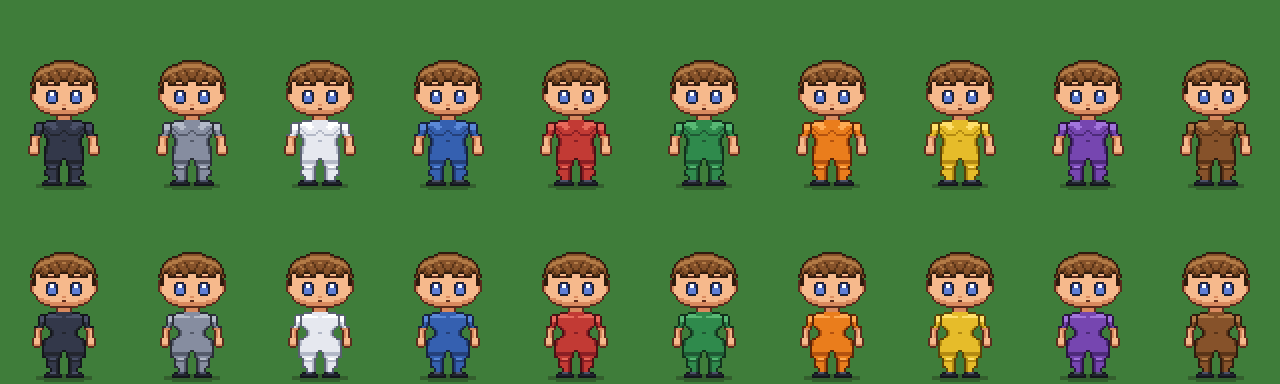
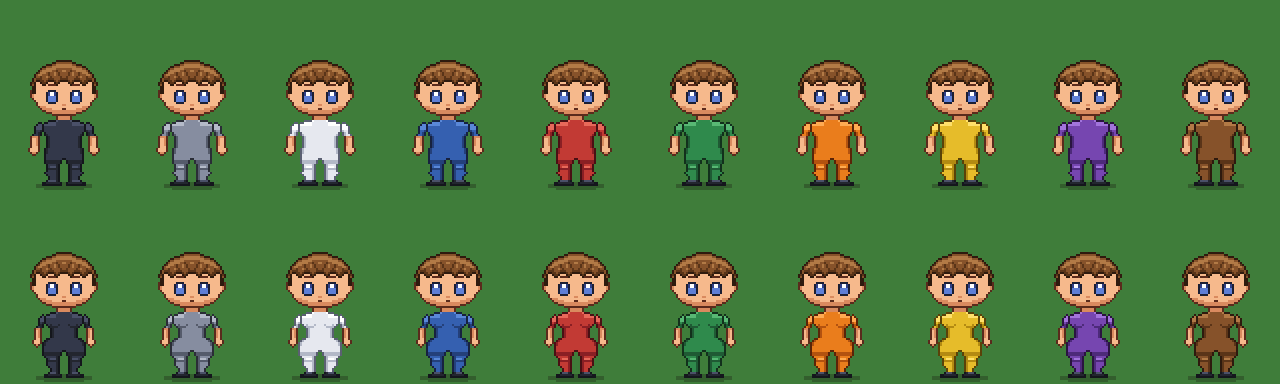
Arte: regra das pontas arredondadas, roupa lisa, espiral maior, contraste da estampa e cabelo repicado
Padrões de cabelo observados na referência em arte/boneco-base/REFERENCIA-GRAAL.md.

Claude-Session: https://claude.ai/code/session_013vLqrS9CvqGe3bkjQv7HjM

diff --git a/arte/boneco-base.html b/arte/boneco-base.html
@@ -136,7 +136,14 @@
     if (inf && inf.modo === 'cor') { set(inf.partes, k.corInferior || 'preto'); hide.inferior = true; }
     if (k.pes) set(PECAS.calcado.partes, k.pes);
     if (k.maos) set(PECAS.luvas.partes, k.maos);
-    set([10], k.corCabelo || 'marrom'); set([11], k.bandana || 'azul'); set([12], k.corAcessorio || 'preto'); set([13], k.corEstampa || 'branco'); set([14], k.corPeca || 'cinza');
+    set([10], k.corCabelo || 'marrom'); set([11], k.bandana || 'azul'); set([12], k.corAcessorio || 'preto'); {
+      // A estampa precisa contrastar com a roupa: se as cores forem parecidas, troca por branco ou preto.
+      const lum = (hex) => { const n = parseInt(hex.slice(1), 16); return (0.299 * (n >> 16) + 0.587 * ((n >> 8) & 255) + 0.114 * (n & 255)) / 255; };
+      let ce = k.corEstampa || 'branco';
+      const fundo = TECIDOS[k.corSuperior || 'azul'];
+      if (TECIDOS[ce] && fundo && Math.abs(lum(TECIDOS[ce][2]) - lum(fundo[2])) < 0.3) ce = lum(fundo[2]) < 0.5 ? 'branco' : 'preto';
+      set([13], ce);
+    } set([14], k.corPeca || 'cinza');
     return { cores, hide };
   }
   function colorOf(v, res) {
@@ -168,7 +175,21 @@
    * `rule(c)` devolve LIGHT, SHADE ou nada (fica a cor base). c traz x, y, ax (distância do eixo),
    * dT/dB/dL/dR (quantos pixels da peça existem acima, abaixo, à esquerda e à direita).
    */
+  // Regra: nada com ponta totalmente quadrada. Antes de pintar, tira o pixel de cada canto convexo em L
+  // (só onde a borda continua por pelo menos 3 pixels nos dois sentidos, para não comer peças finas).
+  function roundCorners(mask) {
+    const o = mask.slice();
+    for (let y = 0; y < H; y++) for (let x = 0; x < W; x++) {
+      if (!mask[key(x, y)]) continue;
+      for (const [sx, sy] of [[1, 1], [-1, 1], [1, -1], [-1, -1]]) {
+        if (!has(mask, x - sx, y) && !has(mask, x, y - sy) && has(mask, x + 2 * sx, y) && has(mask, x, y + 2 * sy)
+          && has(mask, x + sx, y + sy)) { o[key(x, y)] = 0; break; }
+      }
+    }
+    return o;
+  }
   function paint(grid, mask, tones, rule) {
+    mask = roundCorners(mask);
     for (let y = 0; y < H; y++) for (let x = 0; x < W; x++) {
       if (!mask[key(x, y)]) continue;
       const edge = !has(mask, x - 1, y) || !has(mask, x + 1, y) || !has(mask, x, y - 1) || !has(mask, x, y + 1);
@@ -393,6 +414,33 @@
       }
       return { frente: m, tras };
     } });
+  // Referência Graal: volume que passa do crânio, borda feita de pontas de mecha (serrilhada), franja em mechas
+  // pontudas cobrindo a testa até a sobrancelha e sombra separando as mechas.
+  definirPeca({ id: 'repicado', tipo: 'cabelo', modo: 'forma', camada: 'cabelo', parte: PART.cabelo, sombra: SOMBRA_CABELO,
+    desenho(view, k) {
+      const m = k.nova(); const lado = view === 'lado';
+      const fim = view === 'costas' ? 24 : lado ? 22 : 13;
+      for (let i = -3; i <= fim; i++) k.cabeca(m, view, Math.max(i, -1), i < -1 ? 1 : 3);
+      // Borda de baixo e das laterais em pontas: uma mecha a cada 3 pixels, ponta de 2 linhas.
+      const ys = []; for (let y = HY + fim - 1; y <= HY + fim + 2; y++) ys.push(y);
+      for (let x = 10; x <= 54; x++) {
+        const dente = x % 3;
+        if (dente === 0) continue;
+        for (let y = HY + fim + 1; y <= HY + fim + (dente === 1 ? 2 : 1); y++) if (m[(HY + fim) * k.W + x]) m[y * k.W + x] = 1;
+      }
+      if (view === 'frente') {
+        // Rosto livre de y +12 para baixo, entre as costeletas; franja em 5 mechas pontudas.
+        for (let y = HY + 12; y <= HY + fim + 3; y++) k.apagar(m, y, [[19, 44]]);
+        [[20, 24], [25, 29], [30, 33], [34, 38], [39, 43]].forEach(([a, b], n) => {
+          for (let j = 0; j <= 3; j++) k.linhas(m, HY + 10 + j, [[a + Math.ceil(j / 2), b - Math.floor(j / 2) - (n % 2)]]);
+        });
+      }
+      if (lado) {
+        for (let y = HY + 12; y <= HY + fim + 3; y++) k.apagar(m, y, [[10, 37]]);
+        for (let j = 0; j <= 3; j++) k.linhas(m, HY + 10 + j, [[16 + j, 24 - j]]);           // mecha da franja
+      }
+      return { frente: m };
+    } });
   definirPeca({ id: 'bandana', tipo: 'bandana', modo: 'forma', camada: 'bandana', parte: PART.bandana,
     sombra: (c) => (c.dB === 1 ? SHADE : null),
     desenho(view, k) {
@@ -456,12 +504,13 @@
     desenho(view, k) {
       const m = k.nova();
       if (view === 'lado') return { frente: m };
-      const cx = view === 'costas' ? 31.5 : 36.5; const cy = view === 'costas' ? 66.5 : 64.5; const r = view === 'costas' ? 4.2 : 2.2;
+      // Anel grande no meio do peito (ou das costas), ponto no centro e a cauda saindo para a direita.
+      const cx = 31.5; const cy = 66.5; const r = 4.6;
       for (let y = 60; y <= 74; y++) for (let x = 20; x <= 44; x++) {
         const d = Math.hypot(x - cx, y - cy);
-        if ((d <= r && d >= r - 1.3) || (d < 1 && view === 'costas')) m[y * k.W + x] = 1;
+        if ((d <= r && d >= r - 1.3) || d < 1) m[y * k.W + x] = 1;
       }
-      if (view === 'costas') k.linhas(m, 66, [[32, 35]]);
+      k.linhas(m, 66, [[32, 35], [32, 35]]);
       return { frente: m };
     } });
   definirPeca({ id: 'listra', tipo: 'estampa', modo: 'estampa',
@@ -555,7 +604,11 @@
       if (c.y >= 67 && c.y <= 76 && (c.dL === 1 || c.dR === 1)) return SHADE; // lateral do tronco
       return null;
     });
-    if (!back) {
+    // Com roupa de cima, o tecido fica liso: some a musculatura; no feminino fica só a sombra embaixo do busto.
+    const vestido = !!(look && PECAS[look.superior] && PECAS[look.superior].modo === 'cor');
+    if (vestido) {
+      if (!back && sex === 'f') pxSym(L.corpo, [[34, 66], [35, 67], [36, 67], [37, 67], [38, 66]], SHADE);
+    } else if (!back) {
       if (sex === 'm') {
         // Peitoral: arco embaixo de cada lado (mais baixo no meio do músculo), esterno curto e brilho pequeno em cima.
         pxSym(L.corpo, [[33, 66], [34, 67], [35, 67], [36, 67], [37, 67], [38, 67], [39, 66], [40, 65], [41, 64]], SHADE);
@@ -802,7 +855,7 @@
       if (y === 91) return SHADE;
       if (y === 90 && c.dL >= 1 && c.dL <= 6) return LIGHT;          // peito do pé
       if (y === 83 && c.dL >= 2 && c.dL <= 4) return LIGHT;
-      if (sex === 'm' && y === 66 && c.dL <= 5) return SHADE;        // debaixo do peitoral
+      if (sex === 'm' && y === 66 && c.dL <= 5 && !(look && PECAS[look.superior])) return SHADE; // debaixo do peitoral
       return null;
     });
     // Perna e braço de trás: mesma forma, só contorno e sombra, numa camada abaixo do corpo.

diff --git a/arte/boneco-base/boneco-base.js b/arte/boneco-base/boneco-base.js
@@ -76,7 +76,14 @@
     if (inf && inf.modo === 'cor') { set(inf.partes, k.corInferior || 'preto'); hide.inferior = true; }
     if (k.pes) set(PECAS.calcado.partes, k.pes);
     if (k.maos) set(PECAS.luvas.partes, k.maos);
-    set([10], k.corCabelo || 'marrom'); set([11], k.bandana || 'azul'); set([12], k.corAcessorio || 'preto'); set([13], k.corEstampa || 'branco'); set([14], k.corPeca || 'cinza');
+    set([10], k.corCabelo || 'marrom'); set([11], k.bandana || 'azul'); set([12], k.corAcessorio || 'preto'); {
+      // A estampa precisa contrastar com a roupa: se as cores forem parecidas, troca por branco ou preto.
+      const lum = (hex) => { const n = parseInt(hex.slice(1), 16); return (0.299 * (n >> 16) + 0.587 * ((n >> 8) & 255) + 0.114 * (n & 255)) / 255; };
+      let ce = k.corEstampa || 'branco';
+      const fundo = TECIDOS[k.corSuperior || 'azul'];
+      if (TECIDOS[ce] && fundo && Math.abs(lum(TECIDOS[ce][2]) - lum(fundo[2])) < 0.3) ce = lum(fundo[2]) < 0.5 ? 'branco' : 'preto';
+      set([13], ce);
+    } set([14], k.corPeca || 'cinza');
     return { cores, hide };
   }
   function colorOf(v, res) {
@@ -108,7 +115,21 @@
    * `rule(c)` devolve LIGHT, SHADE ou nada (fica a cor base). c traz x, y, ax (distância do eixo),
    * dT/dB/dL/dR (quantos pixels da peça existem acima, abaixo, à esquerda e à direita).
    */
+  // Regra: nada com ponta totalmente quadrada. Antes de pintar, tira o pixel de cada canto convexo em L
+  // (só onde a borda continua por pelo menos 3 pixels nos dois sentidos, para não comer peças finas).
+  function roundCorners(mask) {
+    const o = mask.slice();
+    for (let y = 0; y < H; y++) for (let x = 0; x < W; x++) {
+      if (!mask[key(x, y)]) continue;
+      for (const [sx, sy] of [[1, 1], [-1, 1], [1, -1], [-1, -1]]) {
+        if (!has(mask, x - sx, y) && !has(mask, x, y - sy) && has(mask, x + 2 * sx, y) && has(mask, x, y + 2 * sy)
+          && has(mask, x + sx, y + sy)) { o[key(x, y)] = 0; break; }
+      }
+    }
+    return o;
+  }
   function paint(grid, mask, tones, rule) {
+    mask = roundCorners(mask);
     for (let y = 0; y < H; y++) for (let x = 0; x < W; x++) {
       if (!mask[key(x, y)]) continue;
       const edge = !has(mask, x - 1, y) || !has(mask, x + 1, y) || !has(mask, x, y - 1) || !has(mask, x, y + 1);
@@ -333,6 +354,33 @@
       }
       return { frente: m, tras };
     } });
+  // Referência Graal: volume que passa do crânio, borda feita de pontas de mecha (serrilhada), franja em mechas
+  // pontudas cobrindo a testa até a sobrancelha e sombra separando as mechas.
+  definirPeca({ id: 'repicado', tipo: 'cabelo', modo: 'forma', camada: 'cabelo', parte: PART.cabelo, sombra: SOMBRA_CABELO,
+    desenho(view, k) {
+      const m = k.nova(); const lado = view === 'lado';
+      const fim = view === 'costas' ? 24 : lado ? 22 : 13;
+      for (let i = -3; i <= fim; i++) k.cabeca(m, view, Math.max(i, -1), i < -1 ? 1 : 3);
+      // Borda de baixo e das laterais em pontas: uma mecha a cada 3 pixels, ponta de 2 linhas.
+      const ys = []; for (let y = HY + fim - 1; y <= HY + fim + 2; y++) ys.push(y);
+      for (let x = 10; x <= 54; x++) {
+        const dente = x % 3;
+        if (dente === 0) continue;
+        for (let y = HY + fim + 1; y <= HY + fim + (dente === 1 ? 2 : 1); y++) if (m[(HY + fim) * k.W + x]) m[y * k.W + x] = 1;
+      }
+      if (view === 'frente') {
+        // Rosto livre de y +12 para baixo, entre as costeletas; franja em 5 mechas pontudas.
+        for (let y = HY + 12; y <= HY + fim + 3; y++) k.apagar(m, y, [[19, 44]]);
+        [[20, 24], [25, 29], [30, 33], [34, 38], [39, 43]].forEach(([a, b], n) => {
+          for (let j = 0; j <= 3; j++) k.linhas(m, HY + 10 + j, [[a + Math.ceil(j / 2), b - Math.floor(j / 2) - (n % 2)]]);
+        });
+      }
+      if (lado) {
+        for (let y = HY + 12; y <= HY + fim + 3; y++) k.apagar(m, y, [[10, 37]]);
+        for (let j = 0; j <= 3; j++) k.linhas(m, HY + 10 + j, [[16 + j, 24 - j]]);           // mecha da franja
+      }
+      return { frente: m };
+    } });
   definirPeca({ id: 'bandana', tipo: 'bandana', modo: 'forma', camada: 'bandana', parte: PART.bandana,
     sombra: (c) => (c.dB === 1 ? SHADE : null),
     desenho(view, k) {
@@ -396,12 +444,13 @@
     desenho(view, k) {
       const m = k.nova();
       if (view === 'lado') return { frente: m };
-      const cx = view === 'costas' ? 31.5 : 36.5; const cy = view === 'costas' ? 66.5 : 64.5; const r = view === 'costas' ? 4.2 : 2.2;
+      // Anel grande no meio do peito (ou das costas), ponto no centro e a cauda saindo para a direita.
+      const cx = 31.5; const cy = 66.5; const r = 4.6;
       for (let y = 60; y <= 74; y++) for (let x = 20; x <= 44; x++) {
         const d = Math.hypot(x - cx, y - cy);
-        if ((d <= r && d >= r - 1.3) || (d < 1 && view === 'costas')) m[y * k.W + x] = 1;
+        if ((d <= r && d >= r - 1.3) || d < 1) m[y * k.W + x] = 1;
       }
-      if (view === 'costas') k.linhas(m, 66, [[32, 35]]);
+      k.linhas(m, 66, [[32, 35], [32, 35]]);
       return { frente: m };
     } });
   definirPeca({ id: 'listra', tipo: 'estampa', modo: 'estampa',
@@ -495,7 +544,11 @@
       if (c.y >= 67 && c.y <= 76 && (c.dL === 1 || c.dR === 1)) return SHADE; // lateral do tronco
       return null;
     });
-    if (!back) {
+    // Com roupa de cima, o tecido fica liso: some a musculatura; no feminino fica só a sombra embaixo do busto.
+    const vestido = !!(look && PECAS[look.superior] && PECAS[look.superior].modo === 'cor');
+    if (vestido) {
+      if (!back && sex === 'f') pxSym(L.corpo, [[34, 66], [35, 67], [36, 67], [37, 67], [38, 66]], SHADE);
+    } else if (!back) {
       if (sex === 'm') {
         // Peitoral: arco embaixo de cada lado (mais baixo no meio do músculo), esterno curto e brilho pequeno em cima.
         pxSym(L.corpo, [[33, 66], [34, 67], [35, 67], [36, 67], [37, 67], [38, 67], [39, 66], [40, 65], [41, 64]], SHADE);
@@ -742,7 +795,7 @@
       if (y === 91) return SHADE;
       if (y === 90 && c.dL >= 1 && c.dL <= 6) return LIGHT;          // peito do pé
       if (y === 83 && c.dL >= 2 && c.dL <= 4) return LIGHT;
-      if (sex === 'm' && y === 66 && c.dL <= 5) return SHADE;        // debaixo do peitoral
+      if (sex === 'm' && y === 66 && c.dL <= 5 && !(look && PECAS[look.superior])) return SHADE; // debaixo do peitoral
       return null;
     });
     // Perna e braço de trás: mesma forma, só contorno e sombra, numa camada abaixo do corpo.

diff --git a/arte/boneco-base/REFERENCIA-GRAAL.md b/arte/boneco-base/REFERENCIA-GRAAL.md
@@ -1,0 +1,32 @@
+# Padrões observados nas cabeças e corpos do Graal
+
+Referência pedida pelo Victor (graalguide.com, páginas de cabeças e corpos). Usamos só os **padrões de estilo**, nunca
+cópia de peça: tudo aqui é desenhado do zero no gerador.
+
+## Cabelos
+
+1. **Volume maior que o crânio:** o cabelo passa 2 a 4 pixels da cabeça dos lados e em cima. A cabeça "some" dentro dele.
+2. **Borda feita de pontas de mecha:** o contorno de baixo e das laterais é serrilhado, uma ponta a cada 2 ou 3 pixels,
+   nunca uma linha reta.
+3. **Franja em mechas pontudas** cobrindo a testa até a sobrancelha, às vezes caindo sobre um olho.
+4. **Mechas separadas por sombra:** linhas escuras finas descem do topo até as pontas; brilho em pequenos traços, não em
+   faixa contínua.
+5. **Rampa escura de 4 tons** com contorno quase preto; cabelos claros (branco, rosa) mantêm o contorno escuro.
+6. **Costas:** a nuca inteira coberta, com as pontas viradas para baixo.
+
+## Corpos e roupas
+
+1. Roupa em camadas visíveis: gola, mangas, cinto, barra; cada uma com contorno próprio.
+2. Detalhe por dobras: 1 a 2 linhas de sombra no tecido (vinco no cotovelo, na cintura).
+3. Pequenos acentos claros (botão, fivela, emblema em amarelo ou branco) sobre roupa escura.
+4. Silhueta arredondada: ombros e mangas sem cantos retos.
+
+## O que já entrou
+
+- Cabelo `repicado`: volume maior, borda de baixo serrilhada, franja em mechas e sombra de mechas.
+- Regra das pontas arredondadas em todo o gerador.
+
+## O que falta aplicar
+
+- Franja caindo sobre um olho e mechas assimétricas.
+- Dobras e acentos nas roupas (pede peças de forma no corpo, ainda limitadas ao tronco).

diff --git a/arte/boneco-base/PADRAO.md b/arte/boneco-base/PADRAO.md
@@ -13,6 +13,11 @@ lista de problemas se alguma estiver fora.
 - 3 direções desenhadas: `frente`, `costas` e `lado` (olhando para a esquerda). A direita é o espelho.
 - Nome: `id` em minúsculas, sem acento, com `_`. É um código interno; nome de item do jogo segue a regra das 3 opções.
 
+- **Sem pontas totalmente quadradas** (regra do Victor, 12/11/2026): todo canto convexo em L perde o pixel da quina. O
+  gerador aplica isso sozinho em tudo que pinta (`roundCorners` dentro de `paint`); não desenhe a quina "na mão".
+- Roupa de cima é lisa: com ela, some a musculatura do corpo; no feminino fica só a sombra embaixo do busto.
+- Estampa precisa de contraste com a roupa: se as cores forem parecidas, o gerador troca a estampa por branco ou preto.
+
 ## Os três modos
 
 ### Modo `cor`: roupa colada ao corpo
